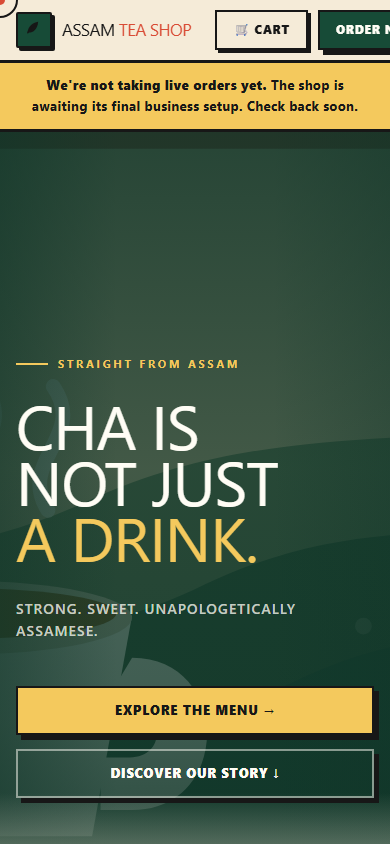
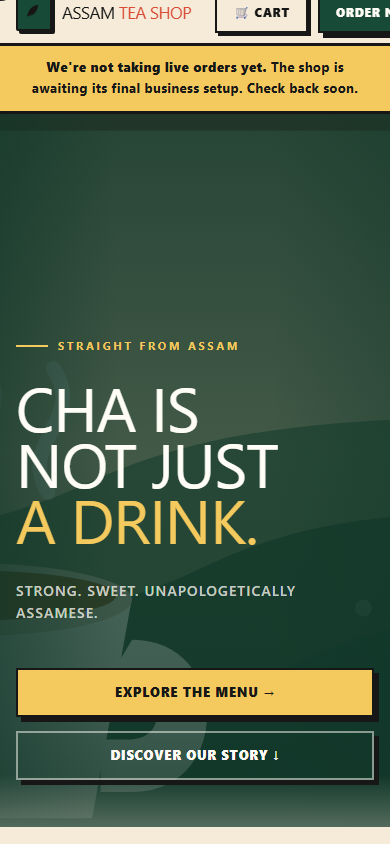
fix(docs): ensure full page content renders in screenshots without blank sections

Changed region(s): [[0.0, 0.4005, 1.0, 1.0], [0.0, 0.0, 1.0, 0.154]]

diff --git a/scripts/capture-screenshots.ts b/scripts/capture-screenshots.ts
@@ -1,7 +1,39 @@
-import { chromium } from "playwright";
+import { chromium, type Page } from "playwright";
 import { mkdir } from "node:fs/promises";
 
 const baseUrl = process.env.APP_BASE_URL ?? "http://localhost:3000";
+
+async function preparePage(page: Page) {
+  // Wait for network to be idle
+  await page.waitForLoadState("networkidle");
+
+  // Scroll down smoothly to trigger any IntersectionObservers, video autoplay, lazy images
+  await page.evaluate(async () => {
+    await new Promise<void>((resolve) => {
+      let totalHeight = 0;
+      const distance = 300;
+      const timer = setInterval(() => {
+        const scrollHeight = document.body.scrollHeight;
+        window.scrollBy(0, distance);
+        totalHeight += distance;
+
+        // Force-reveal all animated elements so screenshots are never empty
+        document.querySelectorAll(".reveal, .reveal-left, .reveal-right").forEach((el) => {
+          el.classList.add("is-visible");
+        });
+
+        if (totalHeight >= scrollHeight) {
+          clearInterval(timer);
+          window.scrollTo(0, 0);
+          resolve();
+        }
+      }, 40);
+    });
+  });
+
+  // Small delay to let scroll-to-top finish and transitions settle
+  await page.waitForTimeout(300);
+}
 
 async function main() {
   await mkdir("docs/screenshots", { recursive: true });
@@ -34,7 +66,9 @@ async function main() {
     },
   ];
 
-  // 1. Desktop Browser Context (1440 x 900)
+  // ==========================================
+  // 1. DESKTOP BROWSER (1440 x 900)
+  // ==========================================
   const desktop = await browser.newPage({
     viewport: { width: 1440, height: 900 },
     deviceScaleFactor: 1,
@@ -43,40 +77,47 @@ async function main() {
   // Home Desktop
   console.log("Capturing Home (Desktop)...");
   await desktop.goto(baseUrl, { waitUntil: "networkidle" });
+  await preparePage(desktop);
   await desktop.screenshot({ path: "docs/screenshots/home.png", fullPage: true });
   await desktop.screenshot({ path: "docs/screenshots/home-current.png", fullPage: false });
 
   // Menu Desktop
   console.log("Capturing Menu (Desktop)...");
   await desktop.goto(`${baseUrl}/menu`, { waitUntil: "networkidle" });
+  await preparePage(desktop);
   await desktop.screenshot({ path: "docs/screenshots/menu.png", fullPage: true });
 
   // Assam Milk Chai PDP Desktop
   console.log("Capturing Assam Milk Chai PDP (Desktop)...");
   await desktop.goto(`${baseUrl}/menu/assam-milk-chai`, { waitUntil: "networkidle" });
+  await preparePage(desktop);
   await desktop.screenshot({ path: "docs/screenshots/assam-milk-chai.png", fullPage: true });
 
-  // Seed sample cart into localStorage
+  // Cart Desktop (with items)
+  console.log("Capturing Cart (Desktop)...");
+  await desktop.goto(`${baseUrl}/cart`, { waitUntil: "networkidle" });
   await desktop.evaluate((cartData) => {
     localStorage.setItem("assam-cart", JSON.stringify(cartData));
   }, sampleCart);
-
-  // Cart Desktop
-  console.log("Capturing Cart (Desktop)...");
-  await desktop.goto(`${baseUrl}/cart`, { waitUntil: "networkidle" });
+  await desktop.reload({ waitUntil: "networkidle" });
+  await preparePage(desktop);
   await desktop.screenshot({ path: "docs/screenshots/cart.png", fullPage: true });
 
-  // Checkout Desktop
+  // Checkout Desktop (with items)
   console.log("Capturing Checkout (Desktop)...");
   await desktop.goto(`${baseUrl}/checkout`, { waitUntil: "networkidle" });
+  await preparePage(desktop);
   await desktop.screenshot({ path: "docs/screenshots/checkout.png", fullPage: true });
 
   // Admin Login Desktop
   console.log("Capturing Admin Login (Desktop)...");
   await desktop.goto(`${baseUrl}/admin-login`, { waitUntil: "networkidle" });
+  await preparePage(desktop);
   await desktop.screenshot({ path: "docs/screenshots/admin-login.png", fullPage: true });
 
-  // 2. Mobile Browser Context (390 x 844)
+  // ==========================================
+  // 2. MOBILE BROWSER (390 x 844)
+  // ==========================================
   const mobile = await browser.newPage({
     viewport: { width: 390, height: 844 },
     deviceScaleFactor: 1,
@@ -85,31 +126,34 @@ async function main() {
   // Home Mobile
   console.log("Capturing Home (Mobile)...");
   await mobile.goto(baseUrl, { waitUntil: "networkidle" });
+  await preparePage(mobile);
   await mobile.screenshot({ path: "docs/screenshots/home-mobile.png", fullPage: true });
   await mobile.screenshot({ path: "docs/screenshots/home-mobile-current.png", fullPage: false });
 
   // Menu Mobile
   console.log("Capturing Menu (Mobile)...");
   await mobile.goto(`${baseUrl}/menu`, { waitUntil: "networkidle" });
+  await preparePage(mobile);
   await mobile.screenshot({ path: "docs/screenshots/menu-mobile.png", fullPage: true });
 
   // Assam Milk Chai PDP Mobile
   console.log("Capturing Assam Milk Chai PDP (Mobile)...");
   await mobile.goto(`${baseUrl}/menu/assam-milk-chai`, { waitUntil: "networkidle" });
+  await preparePage(mobile);
   await mobile.screenshot({ path: "docs/screenshots/assam-milk-chai-mobile.png", fullPage: true });
-
-  // Seed cart for mobile
-  await mobile.evaluate((cartData) => {
-    localStorage.setItem("assam-cart", JSON.stringify(cartData));
-  }, sampleCart);
 
   // Checkout Mobile
   console.log("Capturing Checkout (Mobile)...");
   await mobile.goto(`${baseUrl}/checkout`, { waitUntil: "networkidle" });
+  await mobile.evaluate((cartData) => {
+    localStorage.setItem("assam-cart", JSON.stringify(cartData));
+  }, sampleCart);
+  await mobile.reload({ waitUntil: "networkidle" });
+  await preparePage(mobile);
   await mobile.screenshot({ path: "docs/screenshots/checkout-mobile.png", fullPage: true });
 
   await browser.close();
-  console.log("✓ All latest screenshots successfully updated!");
+  console.log("✓ All latest screenshots updated with full content rendered!");
 }
 
 main().catch((error: unknown) => {

diff --git a/src/components/home-storefront.tsx b/src/components/home-storefront.tsx
@@ -71,11 +71,28 @@ const MARQUEE = [
 function useReveal() {
   useEffect(() => {
     const els = document.querySelectorAll(".reveal, .reveal-left, .reveal-right");
+    if (!els.length) return;
+
     const obs = new IntersectionObserver(
-      (entries) => entries.forEach((e) => { if (e.isIntersecting) e.target.classList.add("is-visible"); }),
-      { threshold: 0.12, rootMargin: "0px 0px -50px 0px" }
+      (entries) =>
+        entries.forEach((e) => {
+          if (e.isIntersecting) {
+            e.target.classList.add("is-visible");
+            obs.unobserve(e.target);
+          }
+        }),
+      { threshold: 0.05, rootMargin: "60px 0px 60px 0px" }
     );
-    els.forEach((el) => obs.observe(el));
+
+    els.forEach((el) => {
+      const rect = el.getBoundingClientRect();
+      if (rect.top < window.innerHeight + 60 && rect.bottom > 0) {
+        el.classList.add("is-visible");
+      } else {
+        obs.observe(el);
+      }
+    });
+
     return () => obs.disconnect();
   }, []);
 }
